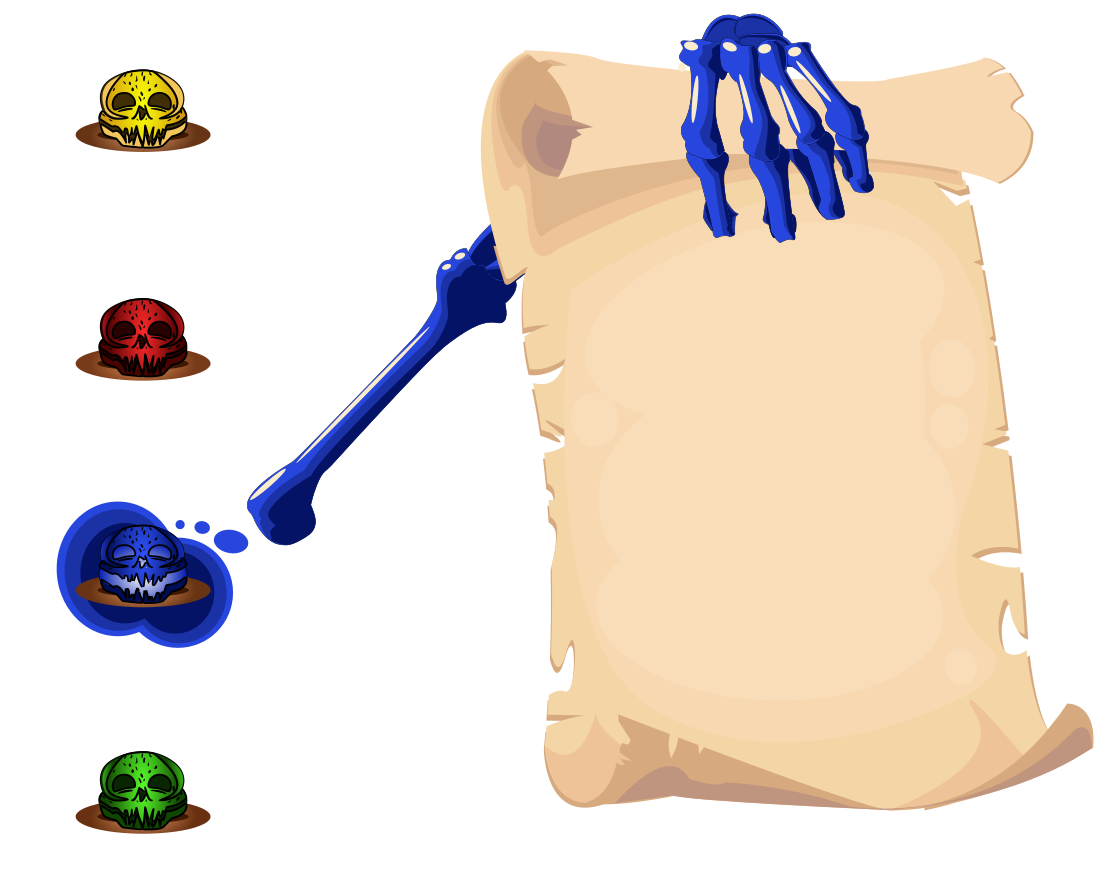
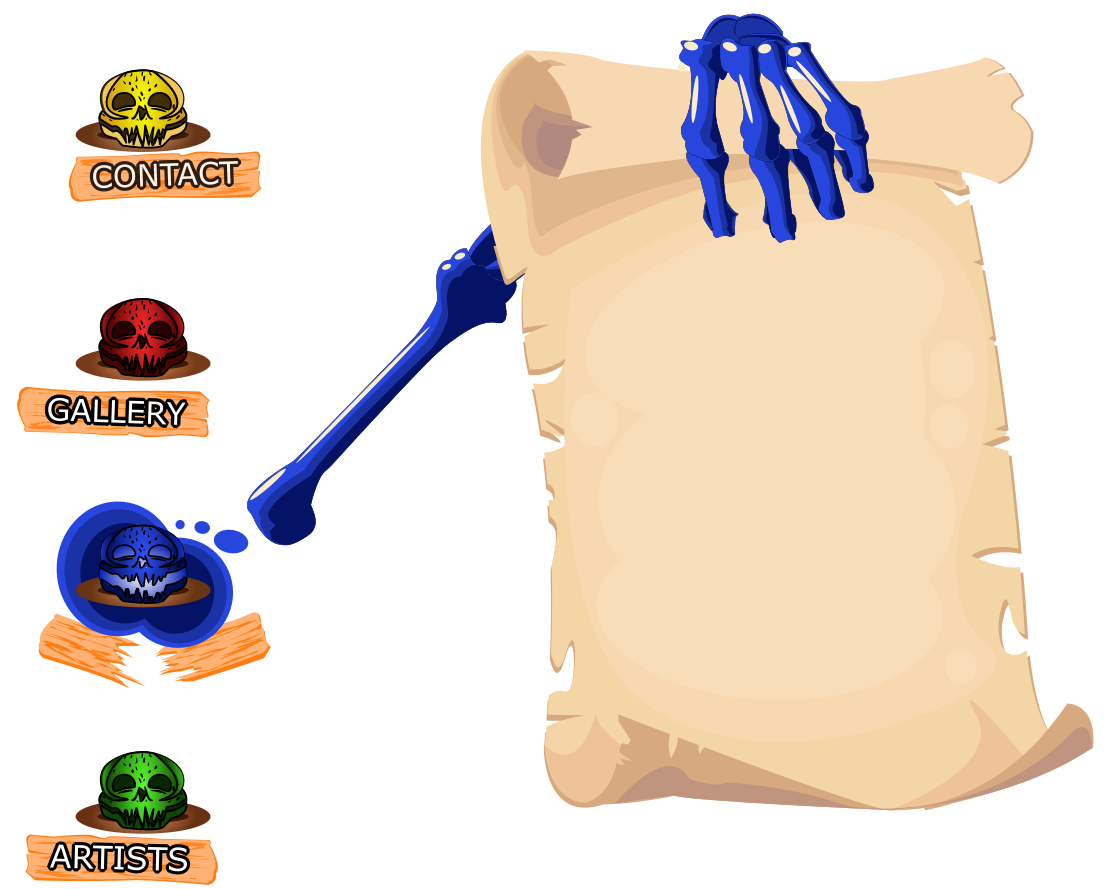
Posicionamiento de los Botones!

diff --git a/desktophight.css b/desktophight.css
@@ -19,11 +19,10 @@
 
     .freelance-image{
         position: absolute;
-        position: absolute;
         height: 49vh;
         width: 49vw;
         margin-left: -4%;
-        margin-top: 15%;
+        margin-top: 14%;
         
     }
     
@@ -44,11 +43,45 @@
         position: absolute;
         display: flex;
         flex-direction: column;
-        height: 75vh;
-        width: 10.4vw;
-        justify-content: space-around;
-        padding-left: 49px;
+        height: 71vh;
+        width: 12.4vw;
+        justify-content: space-between;
+        padding-left: 27px;
+        margin-top: 3%;
         
+    }
+
+    #button-amarillo{
+        position: absolute;
+        height: 4rem;
+        width: 20rem;
+        margin-top: 1%;
+        left: 27%;
+        top: 9%;
+    }
+
+    #button-rojo{
+        position: absolute;
+        height: 4rem;
+        width: 19.4rem;
+        margin-top: 107%;
+        left: 7%;
+    }
+
+    #button-azul{
+        position: absolute;
+        height: 4rem;
+        width: 20rem;
+        margin-top: 182%;
+        left: 27%;
+    }
+
+    #button-verde{
+        position: absolute;
+        height: 4rem;
+        width: 20rem;
+        margin-top: 257%;
+        left: 10%;
     }
     
     .img-background{
